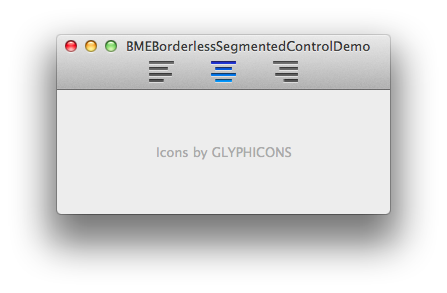
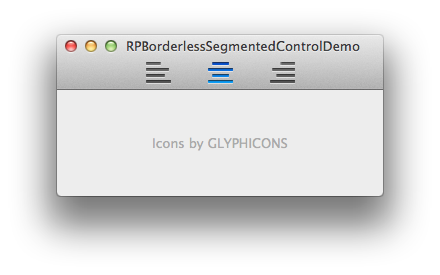
Update README and preview image

Changed region(s): [[0.1182, 0.1164, 0.8864, 0.7564], [0.325, 0.4945, 0.5318, 0.5527], [0.5614, 0.4945, 0.65, 0.5527]]

diff --git a/README.md b/README.md
@@ -7,6 +7,8 @@ A replica of Xcode 5's toolbar segmented controls.
 
 ![](preview.png)
 
+RPBorderlessSegmentedControl is based on [Ole Zorn's Stack Overflow response](http://stackoverflow.com/a/7138497/1082395) with some additional changes and updates.
+
 ## Usage
 
 To run the example project; clone the repo, and run `pod install` from the Project directory first.
@@ -22,9 +24,15 @@ it simply add the following line to your Podfile:
 
     pod "RPBorderlessSegmentedControl"
 
-## Author
+## Contact
 
-Brandon Evans, brandon@brandonevans.ca
+[![Robots & Pencils Logo](http://f.cl.ly/items/2W3n1r2R0j2p2b3n3j3c/rnplogo.png)](http://www.robotsandpencils.com)
+
+Follow Robots & Pencils on Twitter ([@robotsNpencils](https://twitter.com/robotsNpencils))
+
+### Maintainers
+
+- [Brandon Evans](http://github.com/interstateone) ([@interstateone](https://twitter.com/interstateone))
 
 ## License
 
